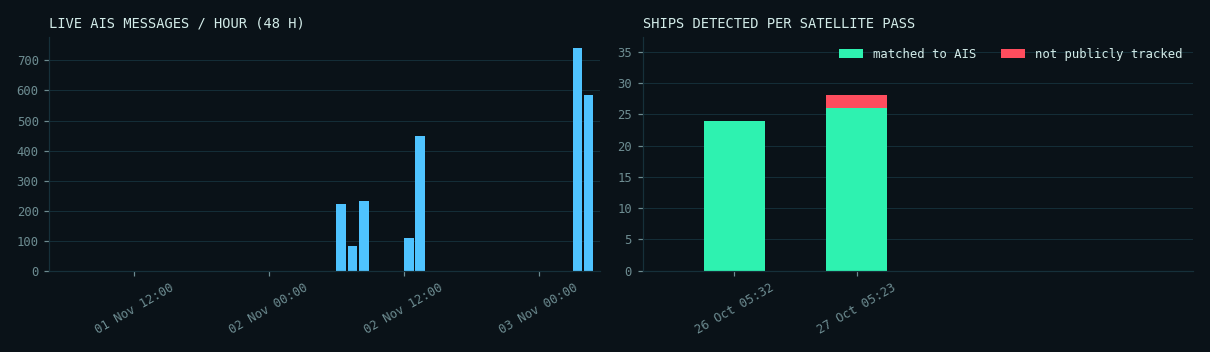
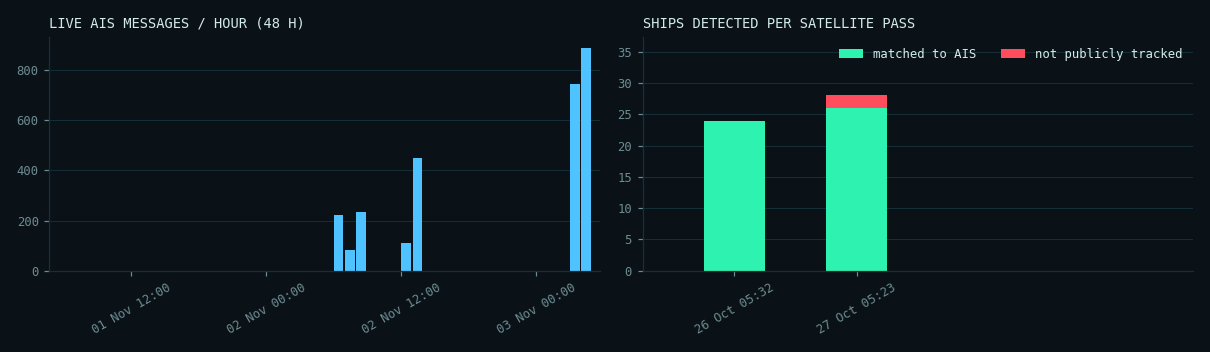
Automatic site update 2026-11-03 04:42 UTC

diff --git a/docs/denmark/index.html b/docs/denmark/index.html
@@ -83,13 +83,13 @@ footer{border-top:1px solid var(--line);padding:18px 0 28px;font:12px/1.6 var(--
   <div><div class="kicker">SAR &times; AIS &middot; MARITIME AWARENESS</div><div class="title">DARK VESSEL <b>DETECTION</b></div></div></a>
  <div class="status"><span class="pill"><span class="dot live"></span>AIS FEED <strong>LIVE</strong></span>
   <span class="pill">UTC <strong id="utc">--:--:--</strong></span>
-  <span class="pill">UPDATED <strong>03 Nov 04:28</strong></span></div>
+  <span class="pill">UPDATED <strong>03 Nov 04:42</strong></span></div>
 </div><nav class="tabs"><a class="" href="../index.html">OVERVIEW</a><a class="" href="../mumbai/index.html">MUMBAI</a><a class="on" href="../denmark/index.html">DENMARK</a><a class="" href="../nn/index.html">NEURAL NET</a><a class="" href="../demo/index.html">SIMULATION</a></nav></div></header>
 <main class="wrap"><div class="coords">SECTOR // DENMARK &middot; 55.55&ndash;55.85&deg;N &middot; 12.55&ndash;12.95&deg;E</div>
 <h1>Oresund, Copenhagen (Denmark/Sweden)</h1><p class="lede">Validation area. Sentinel-1 images it almost daily and coastal AIS coverage is dense, so the full match between radar and AIS can be shown and checked.</p>
 <div class="grid">
  <div class="panel"><div class="label">Live AIS feed</div><div class="value small"><span class='ok'>RECEIVING</span></div><div class="muted mono" style="font-size:12px;margin-top:6px">last message 0 min ago</div></div>
- <div class="panel"><div class="label">Ships broadcasting &middot; 30 min</div><div class="value cyan">58</div></div>
+ <div class="panel"><div class="label">Ships broadcasting &middot; 30 min</div><div class="value cyan">59</div></div>
  <div class="panel"><div class="label">Matched &middot; latest pass</div><div class="value ">26</div></div>
  <div class="panel"><div class="label">Not tracked &middot; high confidence</div><div class="value red">0</div></div>
  <div class="panel"><div class="label">Not tracked &middot; low confidence</div><div class="value amber">2</div></div>
@@ -98,7 +98,7 @@ footer{border-top:1px solid var(--line);padding:18px 0 28px;font:12px/1.6 var(--
 <div class="legend"><span><i style="background:var(--green)"></i>matched to AIS</span><span><i style="background:var(--red)"></i>not tracked &middot; high confidence</span>
 <span><i style="background:var(--amber)"></i>not tracked &middot; low confidence</span><span><i style="background:var(--cyan)"></i>live AIS position</span></div>
 <div id="map" class="map"></div><script>
-const D=[{"lon": 12.574560869565218, "lat": 55.849597826086956, "length_m": 72.681575622935, "score": 0.6554655519501138, "shore_km": 0.14150886088341372, "status": "matched", "reason": "", "confidence": "high", "crop": "", "ship_prob": 0.9335045218467712}, {"lon": 12.704759174311928, "lat": 55.82280412844037, "length_m": 364.1071436957287, "score": 0.9904753373251979, "shore_km": 9.407061429825474, "status": "matched", "reason": "", "confidence": "high", "crop": "", "ship_prob": 0.9868959784507751}, {"lon": 12.786416463414636, "lat": 55.804669512195126, "length_m": 155.0522474362954, "score": 0.9999646038759398, "shore_km": 4.658419014138412, "status": "matched", "reason": "", "confidence": "high", "crop": "", "ship_prob": 0.9993557333946228}, {"lon": 12.88229375, "lat": 55.849146875, "length_m": 53.38783327710226, "score": 0.9899546194309776, "shore_km": 0.9067240720863213, "status": "candidate", "reason": "same_spot_in_another_pass", "confidence": "low", "crop": "crops/S1-Oresund-20261027_37.png", "ship_prob": 0.7905591130256653}, {"lon": 12.604004166666668, "lat": 55.75985, "length_m": 141.84238362073958, "score": 0.6867268898684522, "shore_km": 0.07168283192738693, "status": "matched", "reason": "", "confidence": "high", "crop": "", "ship_prob": 0.5051270127296448}, {"lon": 12.605736764705883, "lat": 55.75241323529412, "length_m": 122.11483240811877, "score": 0.9136889320646264, "shore_km": 0.6454382429486746, "status": "candidate", "reason": "same_spot_in_another_pass", "confidence": "low", "crop": "crops/S1-Oresund-20261027_77.png", "ship_prob": 0.7927113175392151}, {"lon": 12.703722571428573, "lat": 55.77917742857143, "length_m": 223.0817648726515, "score": 0.9996320924909895, "shore_km": 5.943270442766068, "status": "matched", "reason": "", "confidence": "high", "crop": "", "ship_prob": 0.9938097596168518}, {"lon": 12.902757692307693, "lat": 55.75654230769231, "length_m": 65.46226537445588, "score": 0.7187896049600956, "shore_km": 0.03584141596369347, "status": "matched", "reason": "", "confidence": "high", "crop": "", "ship_prob": 0.8691755533218384}, {"lon": 12.589922222222222, "lat": 55.725764814814816, "length_m": 146.45480845096748, "score": 0.9957587025210503, "shore_km": 0.034771280891766385, "status": "matched", "reason": "", "confidence": "high", "crop": "", "ship_prob": 0.9983701109886169}, {"lon": 12.598472047244096, "lat": 55.72077913385827, "length_m": 207.62671185403417, "score": 0.609772230082722, "shore_km": 0.14016751439395445, "status": "matched", "reason": "", "confidence": "high", "crop": "", "ship_prob": 0.6074324250221252}, {"lon": 12.589218, "lat": 55.712854, "length_m": 90.49550243938293, "score": 0.6486089656085543, "shore_km": 0.043464101114707984, "status": "matched", "reason": "", "confidence": "high", "crop": "", "ship_prob": 0.9998902082443237}, {"lon": 12.59024090909091, "lat": 55.71147090909091, "length_m": 162.54265478639104, "score": 1.0, "shore_km": 0.06146752127277559, "status": "matched", "reason": "", "confidence": "high", "crop": "", "ship_prob": 0.9999992847442627}, {"lon": 12.597835937500001, "lat": 55.701648437500005, "length_m": 133.31776511703256, "score": 0.9396217092764791, "shore_km": 0.06789309632894441, "status": "matched", "reason": "", "confidence": "high", "crop": "", "ship_prob": 0.9999727010726929}, {"lon": 12.60914, "lat": 55.69712, "length_m": 65.36743236464424, "score": 0.7827588237578229, "shore_km": 0.03134240904220623, "status": "matched", "reason": "", "confidence": "high", "crop": "", "ship_prob": 0.9867132902145386}, {"lon": 12.668552272727274, "lat": 55.72007840909091, "length_m": 207.26605497726354, "score": 0.6251792307103263, "shore_km": 0.03584141596369347, "status": "matched", "reason": "", "confidence": "high", "crop": "", "ship_prob": 0.9087074398994446}, {"lon": 12.5996, "lat": 55.68885, "length_m": 40.00855981470757, "score": 0.7664068666153926, "shore_km": 0.024587008509110237, "status": "matched", "reason": "", "confidence": "high", "crop": "", "ship_prob": 0.9766618013381958}, {"lon": 12.595819230769232, "lat": 55.67989871794872, "length_m": 127.62371588738732, "score": 0.9426870407335851, "shore_km": 0.05068741655051085, "status": "matched", "reason": "", "confidence": "high", "crop": "", "ship_prob": 0.9998841285705566}, {"lon": 12.594722222222224, "lat": 55.67918888888889, "length_m": 40.64467714079742, "score": 0.7639524834029205, "shore_km": 0.043464101114707984, "status": "matched", "reason": "", "confidence": "high", "crop": "", "ship_prob": 0.9999454021453857}, {"lon": 12.610660714285714, "lat": 55.69618571428572, "length_m": 94.51225356515693, "score": 0.9621795096736379, "shore_km": 0.03134240904220623, "status": "matched", "reason": "", "confidence": "high", "crop": "", "ship_prob": 0.999042809009552}, {"lon": 12.649045000000001, "lat": 55.692155, "length_m": 80.63364746000343, "score": 0.8515033668168979, "shore_km": 0.8863693295037299, "status": "matched", "reason": "", "confidence": "high", "crop": "", "ship_prob": 0.4333752989768982}, {"lon": 12.630751724137932, "lat": 55.685453448275865, "length_m": 125.00287123881988, "score": 0.93629426700422, "shore_km": 0.043464101114707984, "status": "matched", "reason": "", "confidence": "high", "crop": "", "ship_prob": 0.9975905418395996}, {"lon": 12.634987254901962, "lat": 55.677338235294116, "length_m": 276.5478352749318, "score": 0.7686103584091717, "shore_km": 0.024587008509110237, "status": "matched", "reason": "", "confidence": "high", "crop": "", "ship_prob": 0.9729636907577515}, {"lon": 12.68766150442478, "lat": 55.69581814159292, "length_m": 176.8074930452176, "score": 0.923202226335388, "shore_km": 2.6834920471942074, "status": "matched", "reason": "", "confidence": "high", "crop": "", "ship_prob": 0.8427141904830933}, {"lon": 12.65826847826087, "lat": 55.63610108695652, "length_m": 174.21377549767067, "score": 0.9833187000337672, "shore_km": 0.043464101114707984, "status": "matched", "reason": "", "confidence": "high", "crop": "", "ship_prob": 0.9998973608016968}, {"lon": 12.680683333333334, "lat": 55.610910000000004, "length_m": 74.22790892756812, "score": 0.6314184609397504, "shore_km": 0.03134240904220623, "status": "matched", "reason": "", "confidence": "high", "crop": "", "ship_prob": 0.44054293632507324}, {"lon": 12.868352132196163, "lat": 55.60022420042644, "length_m": 299.20726350177785, "score": 0.9999960398718075, "shore_km": 2.8169298200726325, "status": "matched", "reason": "", "confidence": "high", "crop": "", "ship_prob": 0.9967911839485168}, {"lon": 12.680875, "lat": 55.59323, "length_m": 95.51211981545671, "score": 0.7585723176580392, "shore_km": 0.03584141596369347, "status": "matched", "reason": "", "confidence": "high", "crop": "", "ship_prob": 0.797581672668457}, {"lon": 12.706387741935485, "lat": 55.56306903225806, "length_m": 301.4640427512081, "score": 0.9999731380181186, "shore_km": 3.1965238712919084, "status": "matched", "reason": "", "confidence": "high", "crop": "", "ship_prob": 0.9941650032997131}],LIVE=[{"lon": 12.594951666666667, "lat": 55.682453333333335, "sog": 0.0, "age": 26}, {"lon": 12.65807, "lat": 55.402699999999996, "sog": 9.9, "age": 22}, {"lon": 12.744438333333333, "lat": 55.99321833333333, "sog": 0.0, "age": 22}, {"lon": 12.66589, "lat": 55.71980333333333, "sog": 0.1, "age": 20}, {"lon": 12.828235000000001, "lat": 55.861675, "sog": 0.0, "age": 19}, {"lon": 12.999793333333335, "lat": 55.618365000000004, "sog": 0.0, "age": 17}, {"lon": 12.599043333333332, "lat": 55.68904666666666, "sog": 0.1, "age": 16}, {"lon": 12.72914, "lat": 55.97906833333333, "sog": 0.0, "age": 15}, {"lon": 12.480893333333334, "lat": 55.60682, "sog": 0.0, "age": 13}, {"lon": 12.83375, "lat": 55.855716666666666, "sog": 0.0, "age": 13}, {"lon": 12.835305, "lat": 55.85993, "sog": 0.0, "age": 10}, {"lon": 12.63486, "lat": 55.68714166666667, "sog": 0.0, "age": 10}, {"lon": 12.892178333333334, "lat": 55.52372666666667, "sog": 0.0, "age": 10}, {"lon": 12.831928333333334, "lat": 55.85404166666667, "sog": 0.0, "age": 9}, {"lon": 12.676055, "lat": 55.593648333333334, "sog": 0.0, "age": 9}, {"lon": 13.03331, "lat": 55.624559999999995, "sog": 0.0, "age": 9}, {"lon": 12.824866666666667, "lat": 55.865916666666664, "sog": 0.0, "age": 9}, {"lon": 12.634105, "lat": 55.675755, "sog": 0.0, "age": 8}, {"lon": 12.823648333333333, "lat": 55.8664, "sog": 0.0, "age": 7}, {"lon": 12.827591666666667, "lat": 55.86271, "sog": 0.0, "age": 7}, {"lon": 12.680443333333333, "lat": 55.61122, "sog": 0.0, "age": 7}, {"lon": 12.488301666666667, "lat": 55.51754833333334, "sog": 0.0, "age": 7}, {"lon": 12.741233333333334, "lat": 55.828685, "sog": 6.1, "age": 6}, {"lon": 12.697585, "lat": 55.610636666666664, "sog": 7.6, "age": 6}, {"lon": 12.72975, "lat": 55.751776666666665, "sog": 0.1, "age": 6}, {"lon": 12.593475000000002, "lat": 55.67917833333333, "sog": 0.0, "age": 5}, {"lon": 12.671326666666666, "lat": 55.816865, "sog": 9.2, "age": 4}, {"lon": 12.684679999999998, "lat": 55.40779333333333, "sog": 14.0, "age": 3}, {"lon": 12.572758333333333, "lat": 55.85083833333333, "sog": 0.0, "age": 3}, {"lon": 12.603545, "lat": 55.760575, "sog": 0.0, "age": 3}, {"lon": 12.697095, "lat": 55.570463333333336, "sog": 12.3, "age": 3}, {"lon": 12.832901666666666, "lat": 55.85850666666667, "sog": 0.0, "age": 3}, {"lon": 12.744454999999999, "lat": 55.993298333333335, "sog": 0.0, "age": 3}, {"lon": 12.635425, "lat": 55.67644, "sog": 0.0, "age": 3}, {"lon": 12.625271666666666, "lat": 55.69106166666666, "sog": 0.0, "age": 2}, {"lon": 12.646938333333333, "lat": 55.677393333333335, "sog": 0.0, "age": 2}, {"lon": 12.482471666666667, "lat": 55.601416666666665, "sog": 0.0, "age": 2}, {"lon": 12.647474999999998, "lat": 55.67688, "sog": 0.0, "age": 2}, {"lon": 12.677158333333333, "lat": 55.93165333333333, "sog": 0.0, "age": 2}, {"lon": 13.033803333333333, "lat": 55.62458166666667, "sog": 0.0, "age": 2}, {"lon": 12.768246666666666, "lat": 55.53814, "sog": 9.0, "age": 2}, {"lon": 12.740908333333334, "lat": 55.86595, "sog": 8.8, "age": 2}, {"lon": 12.676905, "lat": 55.59395, "sog": 0.0, "age": 2}, {"lon": 12.833283333333332, "lat": 55.85588333333333, "sog": 0.0, "age": 2}, {"lon": 12.685056666666666, "lat": 55.99837333333333, "sog": 12.8, "age": 1}, {"lon": 12.68007, "lat": 55.5929, "sog": 0.0, "age": 1}, {"lon": 12.765475, "lat": 55.53581666666666, "sog": 9.6, "age": 1}, {"lon": 12.704975, "lat": 55.564, "sog": 9.5, "age": 1}, {"lon": 12.592981666666667, "lat": 55.67928833333334, "sog": 0.0, "age": 1}, {"lon": 13.03514, "lat": 55.62471, "sog": 0.1, "age": 1}, {"lon": 12.746739999999999, "lat": 55.860213333333334, "sog": 8.8, "age": 0}, {"lon": 12.903496666666666, "lat": 55.75664666666667, "sog": 0.1, "age": 0}, {"lon": 12.501643333333334, "lat": 55.610800000000005, "sog": 0.0, "age": 0}, {"lon": 12.997346666666665, "lat": 55.61367, "sog": 0.0, "age": 0}, {"lon": 13.058483333333333, "lat": 55.67567, "sog": 0.0, "age": 0}, {"lon": 12.722668333333333, "lat": 55.90373, "sog": 0.0, "age": 0}, {"lon": 12.765435, "lat": 55.533185, "sog": 11.4, "age": 0}, {"lon": 12.664021666666667, "lat": 55.72003333333334, "sog": 0.0, "age": 0}],B=[[55.55,12.55],[55.85,12.95]];const m=L.map('map',{zoomSnap:.25}).fitBounds(B);
+const D=[{"lon": 12.574560869565218, "lat": 55.849597826086956, "length_m": 72.681575622935, "score": 0.6554655519501138, "shore_km": 0.14150886088341372, "status": "matched", "reason": "", "confidence": "high", "crop": "", "ship_prob": 0.9335045218467712}, {"lon": 12.704759174311928, "lat": 55.82280412844037, "length_m": 364.1071436957287, "score": 0.9904753373251979, "shore_km": 9.407061429825474, "status": "matched", "reason": "", "confidence": "high", "crop": "", "ship_prob": 0.9868959784507751}, {"lon": 12.786416463414636, "lat": 55.804669512195126, "length_m": 155.0522474362954, "score": 0.9999646038759398, "shore_km": 4.658419014138412, "status": "matched", "reason": "", "confidence": "high", "crop": "", "ship_prob": 0.9993557333946228}, {"lon": 12.88229375, "lat": 55.849146875, "length_m": 53.38783327710226, "score": 0.9899546194309776, "shore_km": 0.9067240720863213, "status": "candidate", "reason": "same_spot_in_another_pass", "confidence": "low", "crop": "crops/S1-Oresund-20261027_37.png", "ship_prob": 0.7905591130256653}, {"lon": 12.604004166666668, "lat": 55.75985, "length_m": 141.84238362073958, "score": 0.6867268898684522, "shore_km": 0.07168283192738693, "status": "matched", "reason": "", "confidence": "high", "crop": "", "ship_prob": 0.5051270127296448}, {"lon": 12.605736764705883, "lat": 55.75241323529412, "length_m": 122.11483240811877, "score": 0.9136889320646264, "shore_km": 0.6454382429486746, "status": "candidate", "reason": "same_spot_in_another_pass", "confidence": "low", "crop": "crops/S1-Oresund-20261027_77.png", "ship_prob": 0.7927113175392151}, {"lon": 12.703722571428573, "lat": 55.77917742857143, "length_m": 223.0817648726515, "score": 0.9996320924909895, "shore_km": 5.943270442766068, "status": "matched", "reason": "", "confidence": "high", "crop": "", "ship_prob": 0.9938097596168518}, {"lon": 12.902757692307693, "lat": 55.75654230769231, "length_m": 65.46226537445588, "score": 0.7187896049600956, "shore_km": 0.03584141596369347, "status": "matched", "reason": "", "confidence": "high", "crop": "", "ship_prob": 0.8691755533218384}, {"lon": 12.589922222222222, "lat": 55.725764814814816, "length_m": 146.45480845096748, "score": 0.9957587025210503, "shore_km": 0.034771280891766385, "status": "matched", "reason": "", "confidence": "high", "crop": "", "ship_prob": 0.9983701109886169}, {"lon": 12.598472047244096, "lat": 55.72077913385827, "length_m": 207.62671185403417, "score": 0.609772230082722, "shore_km": 0.14016751439395445, "status": "matched", "reason": "", "confidence": "high", "crop": "", "ship_prob": 0.6074324250221252}, {"lon": 12.589218, "lat": 55.712854, "length_m": 90.49550243938293, "score": 0.6486089656085543, "shore_km": 0.043464101114707984, "status": "matched", "reason": "", "confidence": "high", "crop": "", "ship_prob": 0.9998902082443237}, {"lon": 12.59024090909091, "lat": 55.71147090909091, "length_m": 162.54265478639104, "score": 1.0, "shore_km": 0.06146752127277559, "status": "matched", "reason": "", "confidence": "high", "crop": "", "ship_prob": 0.9999992847442627}, {"lon": 12.597835937500001, "lat": 55.701648437500005, "length_m": 133.31776511703256, "score": 0.9396217092764791, "shore_km": 0.06789309632894441, "status": "matched", "reason": "", "confidence": "high", "crop": "", "ship_prob": 0.9999727010726929}, {"lon": 12.60914, "lat": 55.69712, "length_m": 65.36743236464424, "score": 0.7827588237578229, "shore_km": 0.03134240904220623, "status": "matched", "reason": "", "confidence": "high", "crop": "", "ship_prob": 0.9867132902145386}, {"lon": 12.668552272727274, "lat": 55.72007840909091, "length_m": 207.26605497726354, "score": 0.6251792307103263, "shore_km": 0.03584141596369347, "status": "matched", "reason": "", "confidence": "high", "crop": "", "ship_prob": 0.9087074398994446}, {"lon": 12.5996, "lat": 55.68885, "length_m": 40.00855981470757, "score": 0.7664068666153926, "shore_km": 0.024587008509110237, "status": "matched", "reason": "", "confidence": "high", "crop": "", "ship_prob": 0.9766618013381958}, {"lon": 12.595819230769232, "lat": 55.67989871794872, "length_m": 127.62371588738732, "score": 0.9426870407335851, "shore_km": 0.05068741655051085, "status": "matched", "reason": "", "confidence": "high", "crop": "", "ship_prob": 0.9998841285705566}, {"lon": 12.594722222222224, "lat": 55.67918888888889, "length_m": 40.64467714079742, "score": 0.7639524834029205, "shore_km": 0.043464101114707984, "status": "matched", "reason": "", "confidence": "high", "crop": "", "ship_prob": 0.9999454021453857}, {"lon": 12.610660714285714, "lat": 55.69618571428572, "length_m": 94.51225356515693, "score": 0.9621795096736379, "shore_km": 0.03134240904220623, "status": "matched", "reason": "", "confidence": "high", "crop": "", "ship_prob": 0.999042809009552}, {"lon": 12.649045000000001, "lat": 55.692155, "length_m": 80.63364746000343, "score": 0.8515033668168979, "shore_km": 0.8863693295037299, "status": "matched", "reason": "", "confidence": "high", "crop": "", "ship_prob": 0.4333752989768982}, {"lon": 12.630751724137932, "lat": 55.685453448275865, "length_m": 125.00287123881988, "score": 0.93629426700422, "shore_km": 0.043464101114707984, "status": "matched", "reason": "", "confidence": "high", "crop": "", "ship_prob": 0.9975905418395996}, {"lon": 12.634987254901962, "lat": 55.677338235294116, "length_m": 276.5478352749318, "score": 0.7686103584091717, "shore_km": 0.024587008509110237, "status": "matched", "reason": "", "confidence": "high", "crop": "", "ship_prob": 0.9729636907577515}, {"lon": 12.68766150442478, "lat": 55.69581814159292, "length_m": 176.8074930452176, "score": 0.923202226335388, "shore_km": 2.6834920471942074, "status": "matched", "reason": "", "confidence": "high", "crop": "", "ship_prob": 0.8427141904830933}, {"lon": 12.65826847826087, "lat": 55.63610108695652, "length_m": 174.21377549767067, "score": 0.9833187000337672, "shore_km": 0.043464101114707984, "status": "matched", "reason": "", "confidence": "high", "crop": "", "ship_prob": 0.9998973608016968}, {"lon": 12.680683333333334, "lat": 55.610910000000004, "length_m": 74.22790892756812, "score": 0.6314184609397504, "shore_km": 0.03134240904220623, "status": "matched", "reason": "", "confidence": "high", "crop": "", "ship_prob": 0.44054293632507324}, {"lon": 12.868352132196163, "lat": 55.60022420042644, "length_m": 299.20726350177785, "score": 0.9999960398718075, "shore_km": 2.8169298200726325, "status": "matched", "reason": "", "confidence": "high", "crop": "", "ship_prob": 0.9967911839485168}, {"lon": 12.680875, "lat": 55.59323, "length_m": 95.51211981545671, "score": 0.7585723176580392, "shore_km": 0.03584141596369347, "status": "matched", "reason": "", "confidence": "high", "crop": "", "ship_prob": 0.797581672668457}, {"lon": 12.706387741935485, "lat": 55.56306903225806, "length_m": 301.4640427512081, "score": 0.9999731380181186, "shore_km": 3.1965238712919084, "status": "matched", "reason": "", "confidence": "high", "crop": "", "ship_prob": 0.9941650032997131}],LIVE=[{"lon": 12.676055, "lat": 55.593648333333334, "sog": 0.0, "age": 23}, {"lon": 12.824866666666667, "lat": 55.865916666666664, "sog": 0.0, "age": 23}, {"lon": 12.827591666666667, "lat": 55.86271, "sog": 0.0, "age": 21}, {"lon": 12.72975, "lat": 55.751776666666665, "sog": 0.1, "age": 20}, {"lon": 12.685056666666666, "lat": 55.99837333333333, "sog": 12.8, "age": 16}, {"lon": 13.03514, "lat": 55.62471, "sog": 0.1, "age": 15}, {"lon": 12.997346666666665, "lat": 55.61367, "sog": 0.0, "age": 14}, {"lon": 12.634121666666665, "lat": 55.675775, "sog": 0.0, "age": 13}, {"lon": 12.831928333333334, "lat": 55.85404166666667, "sog": 0.0, "age": 11}, {"lon": 12.729248333333334, "lat": 55.979076666666664, "sog": 0.0, "age": 11}, {"lon": 12.594953333333333, "lat": 55.682453333333335, "sog": 0.0, "age": 10}, {"lon": 12.680088333333334, "lat": 55.59289833333333, "sog": 0.0, "age": 9}, {"lon": 12.892151666666667, "lat": 55.523741666666666, "sog": 0.0, "age": 9}, {"lon": 12.832901666666666, "lat": 55.85850666666667, "sog": 0.0, "age": 8}, {"lon": 12.635404999999999, "lat": 55.67644166666666, "sog": 0.0, "age": 8}, {"lon": 12.646896666666667, "lat": 55.67737833333333, "sog": 0.0, "age": 8}, {"lon": 12.696493333333333, "lat": 55.44632333333333, "sog": 13.7, "age": 7}, {"lon": 12.48246, "lat": 55.6014, "sog": 0.0, "age": 7}, {"lon": 12.4809, "lat": 55.606795000000005, "sog": 0.0, "age": 7}, {"lon": 12.680455, "lat": 55.61123, "sog": 0.0, "age": 6}, {"lon": 12.8337, "lat": 55.85574999999999, "sog": 0.0, "age": 6}, {"lon": 12.744433333333335, "lat": 55.993309999999994, "sog": 0.0, "age": 6}, {"lon": 12.739506666666667, "lat": 55.891865, "sog": 8.5, "age": 5}, {"lon": 13.033218333333334, "lat": 55.62457833333334, "sog": 0.0, "age": 5}, {"lon": 12.752113333333334, "lat": 55.855445, "sog": 6.2, "age": 5}, {"lon": 12.999793333333335, "lat": 55.618365000000004, "sog": 0.0, "age": 4}, {"lon": 12.903508333333333, "lat": 55.75664833333334, "sog": 0.0, "age": 4}, {"lon": 12.603501666666666, "lat": 55.76051833333334, "sog": 0.0, "age": 3}, {"lon": 12.677276666666668, "lat": 55.931580000000004, "sog": 0.0, "age": 3}, {"lon": 13.033821666666666, "lat": 55.62456666666667, "sog": 0.0, "age": 3}, {"lon": 12.59905, "lat": 55.68904, "sog": 0.0, "age": 3}, {"lon": 12.70613, "lat": 55.53955333333333, "sog": 11.0, "age": 3}, {"lon": 12.603521666666667, "lat": 55.76058166666667, "sog": 0.0, "age": 2}, {"lon": 12.647488333333333, "lat": 55.67688666666666, "sog": 0.0, "age": 2}, {"lon": 12.592981666666667, "lat": 55.67928333333334, "sog": 0.0, "age": 2}, {"lon": 12.676889999999998, "lat": 55.59396666666667, "sog": 0.1, "age": 2}, {"lon": 12.741745, "lat": 55.89168333333334, "sog": 8.9, "age": 2}, {"lon": 12.723738333333333, "lat": 55.508345, "sog": 10.2, "age": 1}, {"lon": 13.058498333333334, "lat": 55.675665, "sog": 0.0, "age": 1}, {"lon": 12.744466666666666, "lat": 55.993225, "sog": 0.0, "age": 1}, {"lon": 12.665895, "lat": 55.719788333333334, "sog": 0.0, "age": 1}, {"lon": 12.764201666666667, "lat": 55.888011666666664, "sog": 10.2, "age": 1}, {"lon": 12.823686666666667, "lat": 55.86640333333333, "sog": 0.1, "age": 1}, {"lon": 12.812946666666667, "lat": 55.56525333333333, "sog": 11.7, "age": 1}, {"lon": 12.833216666666667, "lat": 55.8559, "sog": 0.0, "age": 1}, {"lon": 12.835305, "lat": 55.85993, "sog": 0.0, "age": 1}, {"lon": 12.625308333333333, "lat": 55.691048333333335, "sog": 0.0, "age": 1}, {"lon": 12.65895, "lat": 55.956019999999995, "sog": 12.1, "age": 1}, {"lon": 12.634898333333332, "lat": 55.68710333333333, "sog": 0.0, "age": 1}, {"lon": 12.593521666666668, "lat": 55.679138333333334, "sog": 0.0, "age": 1}, {"lon": 12.703563333333333, "lat": 55.529671666666665, "sog": 7.3, "age": 0}, {"lon": 12.704326666666667, "lat": 55.567294999999994, "sog": 7.8, "age": 0}, {"lon": 12.773235, "lat": 55.53367, "sog": 16.6, "age": 0}, {"lon": 12.572740000000001, "lat": 55.85082666666666, "sog": 0.0, "age": 0}, {"lon": 12.828041666666667, "lat": 55.86158666666667, "sog": 0.0, "age": 0}, {"lon": 12.501635, "lat": 55.610800000000005, "sog": 0.0, "age": 0}, {"lon": 12.664038333333334, "lat": 55.720018333333336, "sog": 0.0, "age": 0}, {"lon": 12.68022, "lat": 55.77051166666667, "sog": 8.9, "age": 0}, {"lon": 12.488248333333333, "lat": 55.517608333333335, "sog": 0.0, "age": 0}],B=[[55.55,12.55],[55.85,12.95]];const m=L.map('map',{zoomSnap:.25}).fitBounds(B);
 // re-fit once layout has settled: if the container had no size when the map was created, Leaflet falls back to zoom 0
 const refit=()=>{m.invalidateSize();m.fitBounds(B);};setTimeout(refit,0);window.addEventListener('load',refit);
 // standard OSM tiles (no API key), turned into a dark "radar console" basemap with a CSS filter (.radar-tiles)
@@ -116,7 +116,7 @@ L.control.layers(null,{'Radar detections (selected pass)':det,'Live AIS, last 30
 </script>
 <h2>Pass log</h2><div class='tablewrap'><table><thead><tr><th>pass (UTC)</th><th>ships</th><th>matched</th><th>not tracked</th><th>low conf.</th><th>match rate</th><th>AIS msgs</th></tr></thead><tbody><tr><td>2026-10-27 05:23 UTC</td><td>28</td><td class='ok'>26</td><td class='bad'>0</td><td style='color:var(--amber)'>2</td><td>93%</td><td>10687</td></tr><tr><td>2026-10-26 05:32 UTC</td><td>24</td><td class='ok'>24</td><td class='bad'>0</td><td style='color:var(--amber)'>0</td><td>100%</td><td>11603</td></tr></tbody></table></div>
 <h2>Telemetry</h2><img class="chart" src="charts.png" alt="AIS messages per hour and ships detected per pass">
-<p class="muted mono" style="font-size:12px">Feed gaps in the last 24 h: 8 (1142 min) &middot; AIS messages in the last hour: 1242</p>
+<p class="muted mono" style="font-size:12px">Feed gaps in the last 24 h: 7 (1140 min) &middot; AIS messages in the last hour: 1248</p>
 <h2>Recent Sentinel-1 acquisitions</h2><ul class="acq"><li>2026-11-02 05:23 UTC</li><li>2026-11-01 16:44 UTC</li><li>2026-11-01 05:31 UTC</li><li>2026-10-31 16:52 UTC</li><li>2026-10-30 17:00 UTC</li><li>2026-10-27 05:23 UTC</li><li>2026-10-26 05:32 UTC</li><li>2026-10-25 16:52 UTC</li></ul></main>
 <footer><div class="wrap">Data: Copernicus Sentinel-1 (ESA) &middot; AIS via aisstream.io and the Danish Maritime Authority &middot;
 coastlines, structures and basemap &copy; OpenStreetMap contributors. Flags are candidates for review, not accusations.</div></footer>

diff --git a/docs/index.html b/docs/index.html
@@ -83,7 +83,7 @@ footer{border-top:1px solid var(--line);padding:18px 0 28px;font:12px/1.6 var(--
   <div><div class="kicker">SAR &times; AIS &middot; MARITIME AWARENESS</div><div class="title">DARK VESSEL <b>DETECTION</b></div></div></a>
  <div class="status"><span class="pill"><span class="dot live"></span>AIS FEED <strong>LIVE</strong></span>
   <span class="pill">UTC <strong id="utc">--:--:--</strong></span>
-  <span class="pill">UPDATED <strong>03 Nov 04:28</strong></span></div>
+  <span class="pill">UPDATED <strong>03 Nov 04:42</strong></span></div>
 </div><nav class="tabs"><a class="on" href="index.html">OVERVIEW</a><a class="" href="mumbai/index.html">MUMBAI</a><a class="" href="denmark/index.html">DENMARK</a><a class="" href="nn/index.html">NEURAL NET</a><a class="" href="demo/index.html">SIMULATION</a></nav></div></header>
 <main class="wrap"><div class="coords">SYSTEM OVERVIEW</div>
 <h1>Ships the radar sees that nobody is tracking</h1>
@@ -91,7 +91,7 @@ footer{border-top:1px solid var(--line);padding:18px 0 28px;font:12px/1.6 var(--
 This system compares the two for each processed Sentinel-1 pass and lists the ships that appear on radar with no matching AIS signal.</p>
 <div class="grid" style="margin-top:18px"><div class="panel"><div class="label">Satellite passes processed</div><div class="value ">3</div></div><div class="panel"><div class="label">Ships matched to AIS</div><div class="value ">50</div></div>
 <div class="panel"><div class="label">Not tracked &middot; high confidence</div><div class="value red">0</div></div><div class="panel"><div class="label">Not tracked &middot; low confidence</div><div class="value amber">117</div></div>
-<div class="panel"><div class="label">Broadcasting now &middot; 30 min</div><div class="value cyan">58</div></div></div>
+<div class="panel"><div class="label">Broadcasting now &middot; 30 min</div><div class="value cyan">59</div></div></div>
 <p class="muted" style="font-size:13px;margin-top:10px"><b>High confidence</b> = no AIS ship nearby although the AIS feed was healthy and the
 target is within receiver range, and it is not at a spot where something was also seen on another pass. Everything else is
 <b>low confidence</b>: the data cannot support calling it dark (for example Mumbai, where no AIS was available for the pass at all).</p>
@@ -114,14 +114,14 @@ same pipeline using historical AIS. Next expected passes: Mumbai about 5 Nov 01:
 <div class="kv"><span>ships matched to AIS</span><span class="ok">50</span></div>
 <div class="kv"><span>not tracked, high confidence</span><span class="bad">0</span></div>
 <div class="kv"><span>not tracked, low confidence</span><span style="color:var(--amber)">2</span></div>
-<div class="kv"><span>broadcasting now (30 min)</span><span style="color:var(--cyan)">58</span></div>
+<div class="kv"><span>broadcasting now (30 min)</span><span style="color:var(--cyan)">59</span></div>
 <div class="go">OPEN SECTOR &rarr;</div></a></div>
 <h2>Read before trusting a flag</h2>
 <div class="alert"><b>"Not publicly tracked" is not "switched off".</b> Small boats often carry no public AIS, free AIS comes from coastal
 receivers with limited range, and ships under about 40 m are not reliably visible to the satellite. Low-confidence flags are the ones the
 data cannot support: beyond receiver range, during an AIS feed gap, or with no AIS recorded.</div>
 <h2>Automatic runs</h2><p class="muted mono" style="font-size:12.5px;margin-top:-4px">Each row is one automatic website rebuild, with the live AIS counts at that moment. Newest first.</p>
-<div class="tablewrap"><table><thead><tr><th>run (UTC)</th><th>mumbai live</th><th>mumbai msg/h</th><th>denmark live</th><th>denmark msg/h</th></tr></thead><tbody><tr><td>2026-11-03 04:28</td><td>0</td><td>0</td><td>58</td><td>1242</td></tr><tr><td>2026-11-03 04:27</td><td>0</td><td>0</td><td>57</td><td>1240</td></tr><tr><td>2026-11-03 04:12</td><td>0</td><td>0</td><td>56</td><td>994</td></tr><tr><td>2026-11-03 04:11</td><td>0</td><td>0</td><td>56</td><td>967</td></tr><tr><td>2026-11-03 03:57</td><td>0</td><td>0</td><td>59</td><td>666</td></tr><tr><td>2026-11-03 03:55</td><td>0</td><td>0</td><td>59</td><td>644</td></tr><tr><td>2026-11-03 03:41</td><td>0</td><td>0</td><td>58</td><td>348</td></tr><tr><td>2026-11-03 03:40</td><td>0</td><td>0</td><td>58</td><td>330</td></tr><tr><td>2026-11-03 03:26</td><td>0</td><td>0</td><td>31</td><td>65</td></tr><tr><td>2026-11-03 03:24</td><td>0</td><td>0</td><td>27</td><td>52</td></tr><tr><td>2026-11-02 13:37</td><td>0</td><td>0</td><td>68</td><td>479</td></tr><tr><td>2026-11-02 13:34</td><td>0</td><td>0</td><td>68</td><td>448</td></tr><tr><td>2026-11-02 13:21</td><td>0</td><td>0</td><td>63</td><td>313</td></tr><tr><td>2026-11-02 13:05</td><td>0</td><td>0</td><td>62</td><td>160</td></tr><tr><td>2026-11-02 12:58</td><td>0</td><td>0</td><td>50</td><td>96</td></tr><tr><td>2026-11-02 12:42</td><td>0</td><td>0</td><td>9</td><td>9</td></tr><tr><td>2026-11-02 08:09</td><td>0</td><td>0</td><td>62</td><td>171</td></tr><tr><td>2026-11-02 07:53</td><td>0</td><td>0</td><td>19</td><td>49</td></tr><tr><td>2026-11-02 07:39</td><td>0</td><td>0</td><td>0</td><td>166</td></tr><tr><td>2026-11-02 07:27</td><td>0</td><td>0</td><td>0</td><td>222</td></tr><tr><td>2026-11-02 06:48</td><td>0</td><td>0</td><td>58</td><td>148</td></tr><tr><td>2026-11-02 06:33</td><td>0</td><td>0</td><td>5</td><td>6</td></tr><tr><td>2026-11-02 06:29</td><td>0</td><td>0</td><td>0</td><td>0</td></tr><tr><td>2026-11-02 06:25</td><td>0</td><td>0</td><td>0</td><td>0</td></tr></tbody></table></div></main>
+<div class="tablewrap"><table><thead><tr><th>run (UTC)</th><th>mumbai live</th><th>mumbai msg/h</th><th>denmark live</th><th>denmark msg/h</th></tr></thead><tbody><tr><td>2026-11-03 04:42</td><td>0</td><td>0</td><td>59</td><td>1248</td></tr><tr><td>2026-11-03 04:28</td><td>0</td><td>0</td><td>58</td><td>1242</td></tr><tr><td>2026-11-03 04:27</td><td>0</td><td>0</td><td>57</td><td>1240</td></tr><tr><td>2026-11-03 04:12</td><td>0</td><td>0</td><td>56</td><td>994</td></tr><tr><td>2026-11-03 04:11</td><td>0</td><td>0</td><td>56</td><td>967</td></tr><tr><td>2026-11-03 03:57</td><td>0</td><td>0</td><td>59</td><td>666</td></tr><tr><td>2026-11-03 03:55</td><td>0</td><td>0</td><td>59</td><td>644</td></tr><tr><td>2026-11-03 03:41</td><td>0</td><td>0</td><td>58</td><td>348</td></tr><tr><td>2026-11-03 03:40</td><td>0</td><td>0</td><td>58</td><td>330</td></tr><tr><td>2026-11-03 03:26</td><td>0</td><td>0</td><td>31</td><td>65</td></tr><tr><td>2026-11-03 03:24</td><td>0</td><td>0</td><td>27</td><td>52</td></tr><tr><td>2026-11-02 13:37</td><td>0</td><td>0</td><td>68</td><td>479</td></tr><tr><td>2026-11-02 13:34</td><td>0</td><td>0</td><td>68</td><td>448</td></tr><tr><td>2026-11-02 13:21</td><td>0</td><td>0</td><td>63</td><td>313</td></tr><tr><td>2026-11-02 13:05</td><td>0</td><td>0</td><td>62</td><td>160</td></tr><tr><td>2026-11-02 12:58</td><td>0</td><td>0</td><td>50</td><td>96</td></tr><tr><td>2026-11-02 12:42</td><td>0</td><td>0</td><td>9</td><td>9</td></tr><tr><td>2026-11-02 08:09</td><td>0</td><td>0</td><td>62</td><td>171</td></tr><tr><td>2026-11-02 07:53</td><td>0</td><td>0</td><td>19</td><td>49</td></tr><tr><td>2026-11-02 07:39</td><td>0</td><td>0</td><td>0</td><td>166</td></tr><tr><td>2026-11-02 07:27</td><td>0</td><td>0</td><td>0</td><td>222</td></tr><tr><td>2026-11-02 06:48</td><td>0</td><td>0</td><td>58</td><td>148</td></tr><tr><td>2026-11-02 06:33</td><td>0</td><td>0</td><td>5</td><td>6</td></tr><tr><td>2026-11-02 06:29</td><td>0</td><td>0</td><td>0</td><td>0</td></tr></tbody></table></div></main>
 <footer><div class="wrap">Data: Copernicus Sentinel-1 (ESA) &middot; AIS via aisstream.io and the Danish Maritime Authority &middot;
 coastlines, structures and basemap &copy; OpenStreetMap contributors. Flags are candidates for review, not accusations.</div></footer>
 <script>(function(){const e=document.getElementById('utc');const t=()=>e.textContent=new Date().toISOString().slice(11,19);t();setInterval(t,1000);})();</script>

diff --git a/docs/mumbai/index.html b/docs/mumbai/index.html
@@ -83,7 +83,7 @@ footer{border-top:1px solid var(--line);padding:18px 0 28px;font:12px/1.6 var(--
   <div><div class="kicker">SAR &times; AIS &middot; MARITIME AWARENESS</div><div class="title">DARK VESSEL <b>DETECTION</b></div></div></a>
  <div class="status"><span class="pill"><span class="dot live"></span>AIS FEED <strong>LIVE</strong></span>
   <span class="pill">UTC <strong id="utc">--:--:--</strong></span>
-  <span class="pill">UPDATED <strong>03 Nov 04:28</strong></span></div>
+  <span class="pill">UPDATED <strong>03 Nov 04:42</strong></span></div>
 </div><nav class="tabs"><a class="" href="../index.html">OVERVIEW</a><a class="on" href="../mumbai/index.html">MUMBAI</a><a class="" href="../denmark/index.html">DENMARK</a><a class="" href="../nn/index.html">NEURAL NET</a><a class="" href="../demo/index.html">SIMULATION</a></nav></div></header>
 <main class="wrap"><div class="coords">SECTOR // MUMBAI &middot; 18.80&ndash;19.10&deg;N &middot; 72.55&ndash;72.95&deg;E</div>
 <h1>Mumbai coast and harbour, India</h1><p class="lede">The project's target area. Sentinel-1 images it about once every 12 days, and free AIS comes only from coastal receivers, so many unmatched ships here are simply out of receiver range.</p>
@@ -116,7 +116,7 @@ L.control.layers(null,{'Radar detections (selected pass)':det,'Live AIS, last 30
 </script>
 <h2>Pass log</h2><div class='tablewrap'><table><thead><tr><th>pass (UTC)</th><th>ships</th><th>matched</th><th>not tracked</th><th>low conf.</th><th>match rate</th><th>AIS msgs</th></tr></thead><tbody><tr><td>2026-10-24 01:02 UTC</td><td>115</td><td class='ok'>0</td><td class='bad'>0</td><td style='color:var(--amber)'>115</td><td>0%</td><td>0</td></tr></tbody></table></div>
 <h2>Telemetry</h2><img class="chart" src="charts.png" alt="AIS messages per hour and ships detected per pass">
-<p class="muted mono" style="font-size:12px">Feed gaps in the last 24 h: 8 (1142 min) &middot; AIS messages in the last hour: 0</p>
+<p class="muted mono" style="font-size:12px">Feed gaps in the last 24 h: 7 (1140 min) &middot; AIS messages in the last hour: 0</p>
 <h2>Recent Sentinel-1 acquisitions</h2><ul class="acq"><li>2026-10-24 01:02 UTC</li></ul></main>
 <footer><div class="wrap">Data: Copernicus Sentinel-1 (ESA) &middot; AIS via aisstream.io and the Danish Maritime Authority &middot;
 coastlines, structures and basemap &copy; OpenStreetMap contributors. Flags are candidates for review, not accusations.</div></footer>

diff --git a/docs/demo/index.html b/docs/demo/index.html
@@ -83,7 +83,7 @@ footer{border-top:1px solid var(--line);padding:18px 0 28px;font:12px/1.6 var(--
   <div><div class="kicker">SAR &times; AIS &middot; MARITIME AWARENESS</div><div class="title">DARK VESSEL <b>DETECTION</b></div></div></a>
  <div class="status"><span class="pill"><span class="dot live"></span>AIS FEED <strong>LIVE</strong></span>
   <span class="pill">UTC <strong id="utc">--:--:--</strong></span>
-  <span class="pill">UPDATED <strong>03 Nov 04:28</strong></span></div>
+  <span class="pill">UPDATED <strong>03 Nov 04:42</strong></span></div>
 </div><nav class="tabs"><a class="" href="../index.html">OVERVIEW</a><a class="" href="../mumbai/index.html">MUMBAI</a><a class="" href="../denmark/index.html">DENMARK</a><a class="" href="../nn/index.html">NEURAL NET</a><a class="on" href="../demo/index.html">SIMULATION</a></nav></div></header>
 <main class="wrap"><div class="coords">SIMULATION // SYNTHETIC SCENES WITH KNOWN GROUND TRUTH</div>
 <h1>Simulation: the whole pipeline with a known answer</h1>

diff --git a/docs/nn/index.html b/docs/nn/index.html
@@ -83,7 +83,7 @@ footer{border-top:1px solid var(--line);padding:18px 0 28px;font:12px/1.6 var(--
   <div><div class="kicker">SAR &times; AIS &middot; MARITIME AWARENESS</div><div class="title">DARK VESSEL <b>DETECTION</b></div></div></a>
  <div class="status"><span class="pill"><span class="dot live"></span>AIS FEED <strong>LIVE</strong></span>
   <span class="pill">UTC <strong id="utc">--:--:--</strong></span>
-  <span class="pill">UPDATED <strong>03 Nov 04:28</strong></span></div>
+  <span class="pill">UPDATED <strong>03 Nov 04:42</strong></span></div>
 </div><nav class="tabs"><a class="" href="../index.html">OVERVIEW</a><a class="" href="../mumbai/index.html">MUMBAI</a><a class="" href="../denmark/index.html">DENMARK</a><a class="on" href="../nn/index.html">NEURAL NET</a><a class="" href="../demo/index.html">SIMULATION</a></nav></div></header>
 <main class="wrap"><div class="coords">NEURAL NETWORK // SHIPCNN</div>
 <h1>ShipCNN: our own convolutional network that decides "is this a ship?"</h1>
